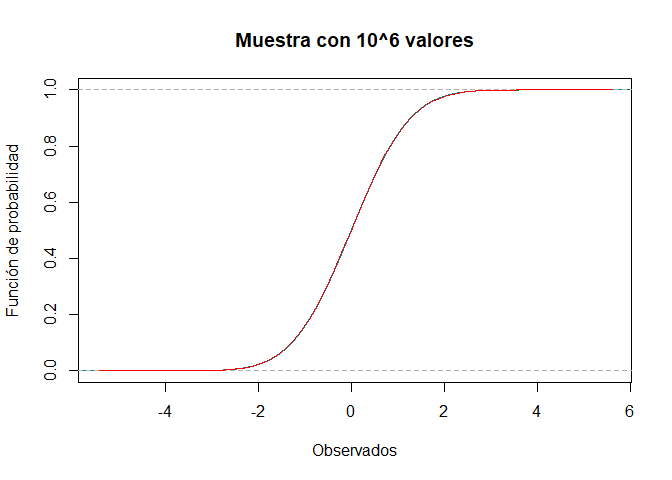
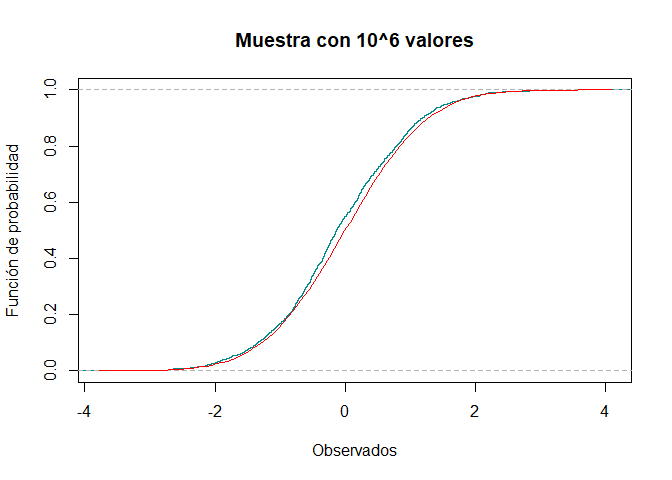
Avance bondad

diff --git a/Pruebas_p.html b/Pruebas_p.html
@@ -413,15 +413,14 @@ curve(pnorm(x), add=TRUE, col=&quot;red&quot;)</code></pre>
 <p>Vamos con la segunda parte del ejercicio, primero volvemos a fijar la semilla.</p>
 <pre class="r"><code>set.seed(2019)</code></pre>
 <p>Generamos un millón de datos de una distribución <span class="math inline">\(N(0,1)\)</span>.</p>
-<pre class="r"><code>x_dataM = rnorm(10^6)</code></pre>
+<pre class="r"><code>x_dataM = rnorm(10^3)</code></pre>
 <p>Calculamos la función de distribución empírica <span class="math inline">\(F_{n}\)</span></p>
-<pre class="r"><code>x_dataM = rnorm(10^6)
-f_empiM = ecdf(x_dataM)</code></pre>
+<pre class="r"><code>f_empiM = ecdf(x_dataM)</code></pre>
 <p>Veamos las gráficas:</p>
 <pre class="r"><code>plot(f_empiM, xlab=&quot;Observados&quot;, ylab=&quot;Función de probabilidad&quot;, 
      main=&quot;Muestra con 10^6 valores&quot;, col=&quot;darkcyan&quot;)
 curve(pnorm(x), add=TRUE, col=&quot;red&quot;)</code></pre>
[2 lines of base64/hex data omitted]
 <p>En este caso para una muestra de tamaño <span class="math inline">\(10^6\)</span>, ambas funciones se parecen mucho, apenas se alcanzan a ver los puntos en los que difieren.</p>
 <p>Trabajemos con la muestra tamaño 25, ahora vamos a ver como se comportan los datos en relación con la función empírica y real, primero debemos ordenar los datos.</p>
 <pre class="r"><code>x_data_ord=sort(x_data)
@@ -440,14 +439,66 @@ print(D_data_max)</code></pre>
 D_data_des_max = max(D_data_des)
 print(D_data_des_max)</code></pre>
 <pre><code>## [1] 0.1125086</code></pre>
-<p>Ahora calculamos <span class="math inline">\(D = max \{D^{+},D^{-} \}\)</span>.</p>
+<p>Ahora calculamos <span class="math inline">\(D = max \{D^{+},D^{-} \}= \sup |F_{n}(x) - F(x) |\)</span>, que es la diferencia entre la función de distribución empírica y teórica, al final vamos a comparar con la de la simulación <span class="math inline">\(10^{6}\)</span>.</p>
 <pre class="r"><code>D_max= max(D_data_max,D_data_des_max)
 print(D_max)</code></pre>
 <pre><code>## [1] 0.1125086</code></pre>
 <p>Veamos la información:</p>
-<pre class="r"><code>tabla_25= data.frame()
-print(D_max)</code></pre>
+<p>Mostremos los 5 primeros datos y últimos 5:</p>
+<pre class="r"><code>print(head(valores_25))</code></pre>
+<pre><code>##       x_data x_data_ord probras_data D_data_norm   D_data_des
+## 1  0.7385227  -2.263225   0.01181090  0.02818910  0.011810905
+## 2 -0.5147605  -1.768324   0.03850342  0.04149658 -0.001496583
+## 3 -1.6401813  -1.640181   0.05048373  0.06951627 -0.029516266
+## 4  0.9160368  -1.489939   0.06812013  0.09187987 -0.051879873
+## 5 -1.2674820  -1.267482   0.10249150  0.09750850 -0.057508497
+## 6  0.7382478  -1.117601   0.13186870  0.10813130 -0.068131302</code></pre>
+<pre class="r"><code>print(tail(valores_25))</code></pre>
+<pre><code>##        x_data x_data_ord probras_data  D_data_norm   D_data_des
+## 20 -2.2632252  0.8673066    0.8071130 -0.007112981  0.047112981
+## 21  0.2855605  0.8775886    0.8099165  0.030083517  0.009916483
+## 22  0.9684286  0.9160368    0.8201762  0.059823801 -0.019823801
+## 23  0.8673066  0.9684286    0.8335848  0.086415187 -0.046415187
+## 24  1.3781350  1.3781350    0.9159192  0.044080808 -0.004080808
+## 25 -0.8082596  1.6186229    0.9472358  0.052764213 -0.012764213</code></pre>
+<p>Vamos a hacer lo mismo para los datos de la simulación <span class="math inline">\(10^{6}\)</span>, y después vamos comparar las <span class="math inline">\(D\)</span>. Ordenamos la muestra.</p>
+<pre class="r"><code>x_dataM_ord = sort(x_dataM)
+f_empi_M= f_empiM(x_dataM_ord)</code></pre>
+<p>Calculamos la función desfasada (<span class="math inline">\(\frac{1}{10^6}\)</span>).</p>
+<pre class="r"><code>f_empi_M_des = f_empi_M - (1/(10^3))</code></pre>
+<p>Calculamos las probas bajo una distribución <span class="math inline">\(N(0,1)\)</span>.</p>
+<pre class="r"><code>probas_dataM = pnorm(x_dataM_ord)</code></pre>
+<p>Calculamos <span class="math inline">\(D^{+}=\max \{F_{n}(x_{i}) - F(x_{i}) \}\)</span>.</p>
+<pre class="r"><code>D_dataM_norm = f_empi_M - probas_dataM
+D_dataM_norm_max = max(D_dataM_norm)
+print(D_dataM_norm_max)</code></pre>
+<pre><code>## [1] 0.05626327</code></pre>
+<p>Calculamos <span class="math inline">\(D^{-}=\max \{F(x_{i}) - F_{n}(x_{i-1}) \}\)</span>.</p>
+<pre class="r"><code>D_dataM_des = probas_dataM - f_empi_M_des
+D_dataM_des_max = max(D_dataM_des)
+print(D_data_des_max)</code></pre>
 <pre><code>## [1] 0.1125086</code></pre>
+<p>Ahora calculamos <span class="math inline">\(D\)</span>.</p>
+<pre class="r"><code>D_maxM = max(D_dataM_norm_max, D_data_des_max)
+print(D_data_des_max)</code></pre>
+<pre><code>## [1] 0.1125086</code></pre>
+<p>Mostremos los 5 primeros datos y últimos 5:</p>
+<pre class="r"><code>print(head(valores_M))</code></pre>
+<pre><code>##      x_dataM x_dataM_ord probas_dataM D_dataM_norm   D_dataM_des
+## 1  0.7385227   -3.236082 0.0006059136 0.0003940864  0.0006059136
+## 2 -0.5147605   -3.186318 0.0007204796 0.0012795204 -0.0002795204
+## 3 -1.6401813   -3.096515 0.0009790485 0.0020209515 -0.0010209515
+## 4  0.9160368   -2.699617 0.0034709701 0.0005290299  0.0004709701
+## 5 -1.2674820   -2.693624 0.0035339936 0.0014660064 -0.0004660064
+## 6  0.7382478   -2.665872 0.0038394508 0.0021605492 -0.0011605492</code></pre>
+<pre class="r"><code>print(tail(valores_M))</code></pre>
+<pre><code>##         x_dataM x_dataM_ord probas_dataM  D_dataM_norm  D_dataM_des
+## 995  -0.2995747    2.636017    0.9958057 -0.0008057174 0.0018057174
+## 996  -0.6456850    2.806820    0.9974983 -0.0014983415 0.0024983415
+## 997  -0.9405533    2.833338    0.9976968 -0.0006967652 0.0016967652
+## 998   1.0624081    3.029837    0.9987766 -0.0007765718 0.0017765718
+## 999  -0.7634958    3.262782    0.9994484 -0.0004483775 0.0014483775
+## 1000  0.9604393    3.541459    0.9998010  0.0001989603 0.0008010397</code></pre>
 </div>
 
 

diff --git a/Pruebas_p.md b/Pruebas_p.md
@@ -588,13 +588,12 @@ Generamos un millón de datos de una distribución $N(0,1)$.
 
 
 ```r
-x_dataM = rnorm(10^6)
+x_dataM = rnorm(10^3)
 ```
 Calculamos la función de distribución empírica $F_{n}$
 
 
 ```r
-x_dataM = rnorm(10^6)
 f_empiM = ecdf(x_dataM)
 ```
 
@@ -659,7 +658,7 @@ print(D_data_des_max)
 ```
 ## [1] 0.1125086
 ```
-Ahora calculamos $D = max \{D^{+},D^{-}  \}$.
+Ahora calculamos $D = max \{D^{+},D^{-}  \}= \sup |F_{n}(x) - F(x) |$, que es la diferencia entre la función de distribución empírica y teórica, al final vamos a comparar con la de la simulación $10^{6}$. 
 
 
 ```r
@@ -673,9 +672,90 @@ print(D_max)
 Veamos la información:
 
 
+
+Mostremos los 5 primeros datos y últimos 5: 
+
+
 ```r
-tabla_25= data.frame()
-print(D_max)
+print(head(valores_25))
+```
+
+```
+##       x_data x_data_ord probras_data D_data_norm   D_data_des
+## 1  0.7385227  -2.263225   0.01181090  0.02818910  0.011810905
+## 2 -0.5147605  -1.768324   0.03850342  0.04149658 -0.001496583
+## 3 -1.6401813  -1.640181   0.05048373  0.06951627 -0.029516266
+## 4  0.9160368  -1.489939   0.06812013  0.09187987 -0.051879873
+## 5 -1.2674820  -1.267482   0.10249150  0.09750850 -0.057508497
+## 6  0.7382478  -1.117601   0.13186870  0.10813130 -0.068131302
+```
+
+```r
+print(tail(valores_25))
+```
+
+```
+##        x_data x_data_ord probras_data  D_data_norm   D_data_des
+## 20 -2.2632252  0.8673066    0.8071130 -0.007112981  0.047112981
+## 21  0.2855605  0.8775886    0.8099165  0.030083517  0.009916483
+## 22  0.9684286  0.9160368    0.8201762  0.059823801 -0.019823801
+## 23  0.8673066  0.9684286    0.8335848  0.086415187 -0.046415187
+## 24  1.3781350  1.3781350    0.9159192  0.044080808 -0.004080808
+## 25 -0.8082596  1.6186229    0.9472358  0.052764213 -0.012764213
+```
+
+Vamos a hacer lo mismo para los datos de la simulación $10^{6}$, y después vamos comparar las $D$. Ordenamos la muestra. 
+
+
+```r
+x_dataM_ord = sort(x_dataM)
+f_empi_M= f_empiM(x_dataM_ord)
+```
+
+Calculamos la función desfasada ($\frac{1}{10^6}$).
+
+
+```r
+f_empi_M_des = f_empi_M - (1/(10^3))
+```
+
+Calculamos las probas bajo una distribución $N(0,1)$.
+
+
+```r
+probas_dataM = pnorm(x_dataM_ord)
+```
+
+Calculamos $D^{+}=\max \{F_{n}(x_{i}) - F(x_{i}) \}$. 
+
+
+```r
+D_dataM_norm = f_empi_M - probas_dataM
+D_dataM_norm_max = max(D_dataM_norm)
+print(D_dataM_norm_max)
+```
+
+```
+## [1] 0.05626327
+```
+
+Calculamos $D^{-}=\max \{F(x_{i}) - F_{n}(x_{i-1}) \}$. 
+
+
+```r
+D_dataM_des = probas_dataM - f_empi_M_des
+D_dataM_des_max = max(D_dataM_des)
+print(D_data_des_max)
+```
+
+```
+## [1] 0.1125086
+```
+Ahora calculamos $D$.
+
+```r
+D_maxM = max(D_dataM_norm_max, D_data_des_max)
+print(D_data_des_max)
 ```
 
 ```
@@ -685,6 +765,36 @@ print(D_max)
 
 
 
+Mostremos los 5 primeros datos y últimos 5: 
+
+
+```r
+print(head(valores_M))
+```
+
+```
+##      x_dataM x_dataM_ord probas_dataM D_dataM_norm   D_dataM_des
+## 1  0.7385227   -3.236082 0.0006059136 0.0003940864  0.0006059136
+## 2 -0.5147605   -3.186318 0.0007204796 0.0012795204 -0.0002795204
+## 3 -1.6401813   -3.096515 0.0009790485 0.0020209515 -0.0010209515
+## 4  0.9160368   -2.699617 0.0034709701 0.0005290299  0.0004709701
+## 5 -1.2674820   -2.693624 0.0035339936 0.0014660064 -0.0004660064
+## 6  0.7382478   -2.665872 0.0038394508 0.0021605492 -0.0011605492
+```
+
+```r
+print(tail(valores_M))
+```
+
+```
+##         x_dataM x_dataM_ord probas_dataM  D_dataM_norm  D_dataM_des
+## 995  -0.2995747    2.636017    0.9958057 -0.0008057174 0.0018057174
+## 996  -0.6456850    2.806820    0.9974983 -0.0014983415 0.0024983415
+## 997  -0.9405533    2.833338    0.9976968 -0.0006967652 0.0016967652
+## 998   1.0624081    3.029837    0.9987766 -0.0007765718 0.0017765718
+## 999  -0.7634958    3.262782    0.9994484 -0.0004483775 0.0014483775
+## 1000  0.9604393    3.541459    0.9998010  0.0001989603 0.0008010397
+```
 
 
 
